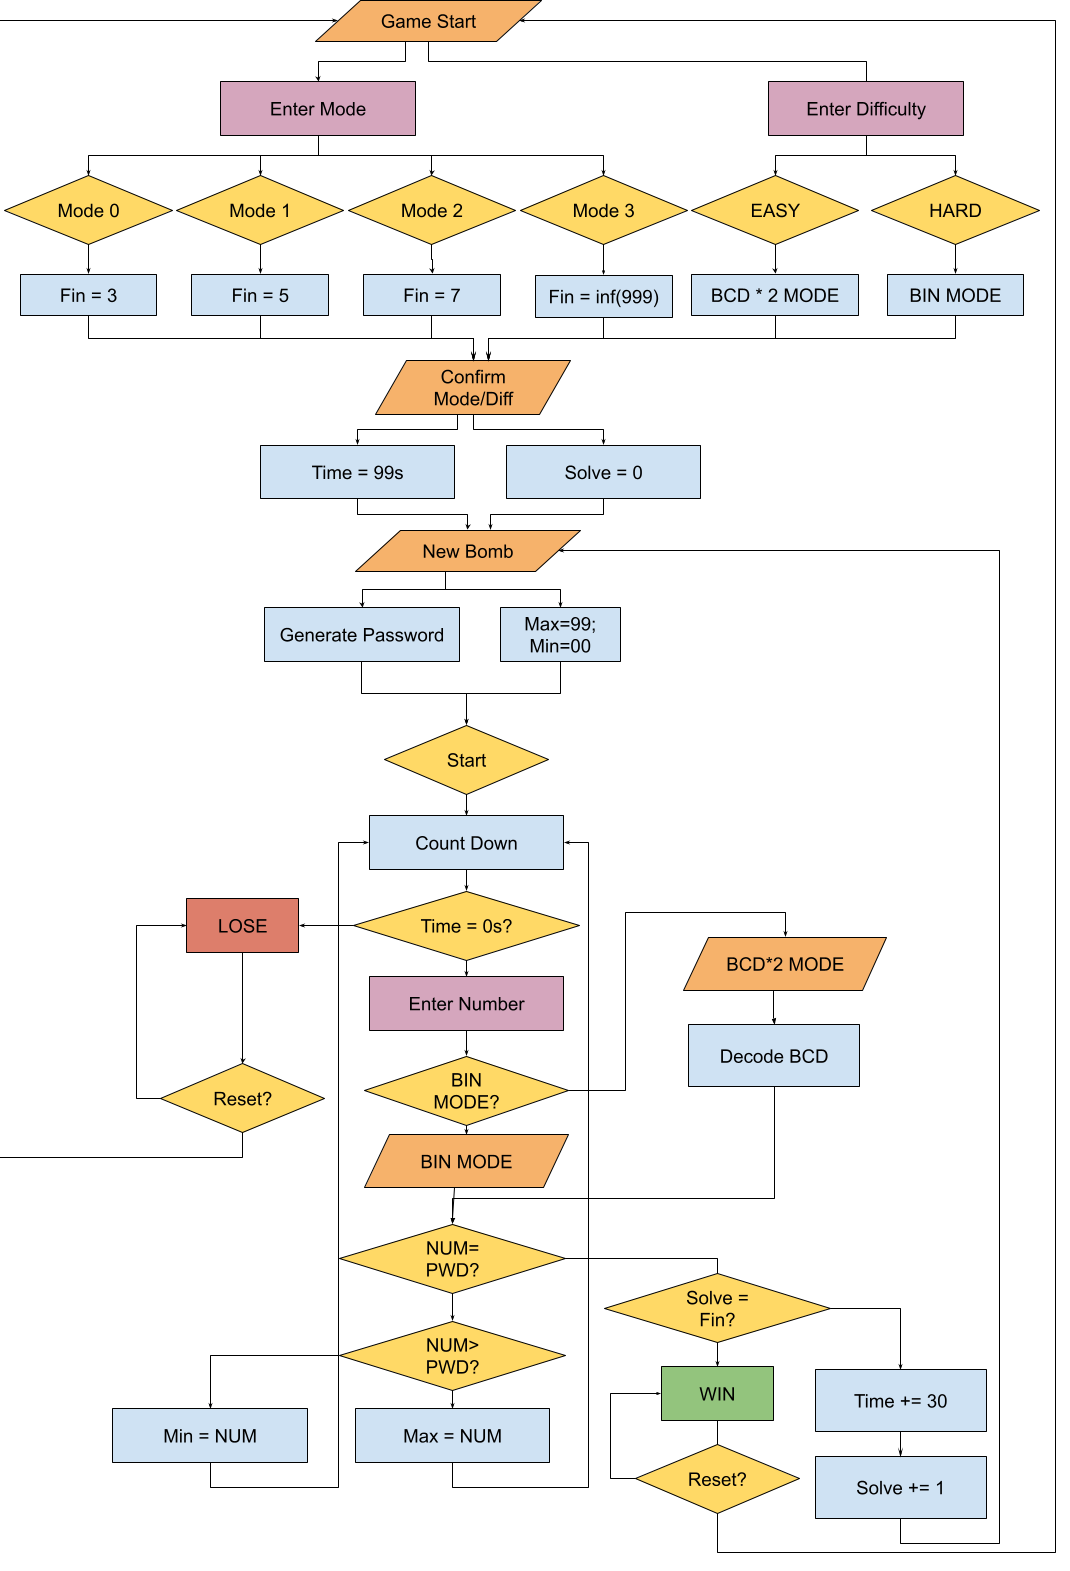
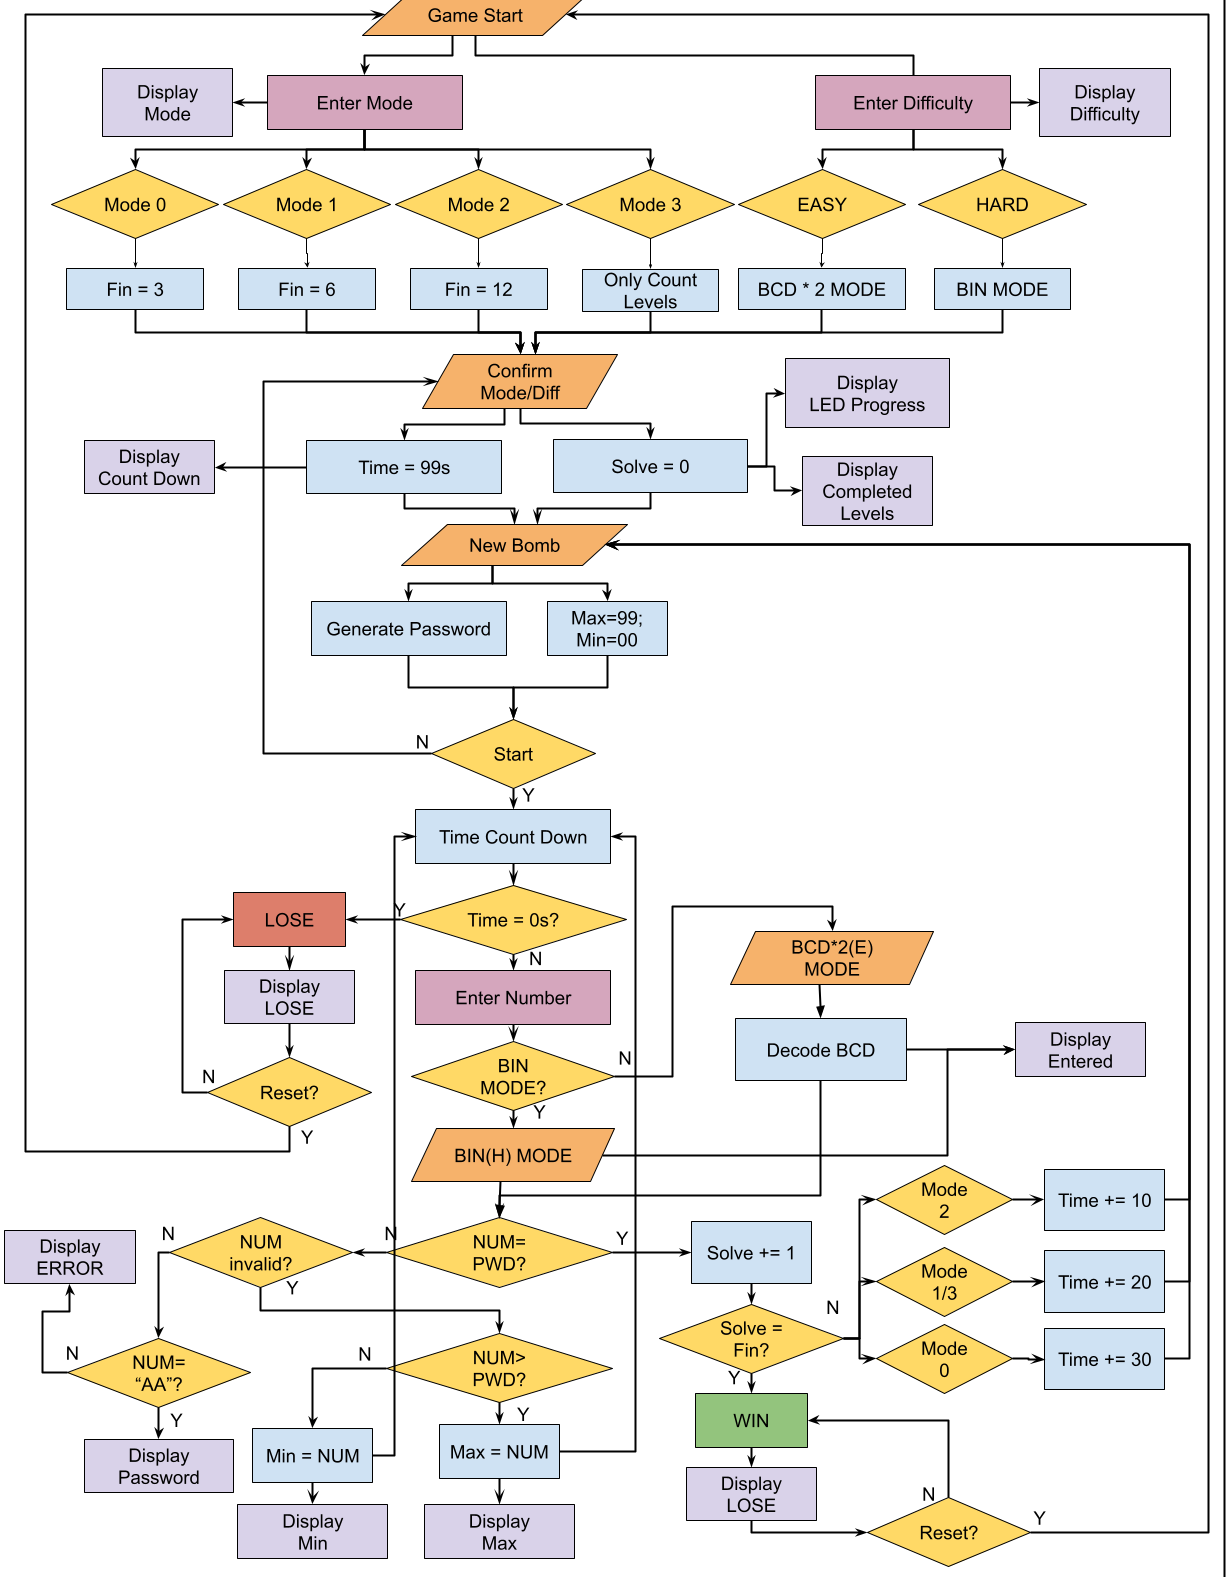
feat: implement digital circuit design and state documentation for Ultimate Bomb project

Changed region(s): [[0.0, 0.0, 1.0, 1.0], [0.0, 0.0, 0.0308, 0.0312]]

diff --git a/StateDiagram.md b/StateDiagram.md
@@ -1,0 +1,47 @@
+# 拆彈遊戲 狀態機圖 (State Diagram)
+
+本圖為 `Ultimate_Bomb_controller` 的核心狀態機轉換圖。
+您可以使用支援 Mermaid 的 Markdown 編輯器 (如 VSCode, Obsidian) 或貼到 [Mermaid Live Editor](https://mermaid.live/) 來預覽並匯出圖片。
+
+```mermaid
+stateDiagram-v2
+    %% 定義狀態節點
+    state "待機 (IDLE)" as idle
+    state "產生新密碼 (NEXT_BOMB)" as next_bomb
+    state "生死倒數 (GAME)" as game
+    state "檢查密碼 (CHECK_PASS)" as check_pass
+    state "遊戲勝利 (GAME_WIN)" as game_win
+    state "爆炸失敗 (GAME_LOSE)" as game_lose
+
+    %% 進入點
+    [*] --> idle : 開機或 Reset
+
+    %% 正常遊戲流程
+    idle --> next_bomb : EN=1 (按下 Confirm 開始遊戲)
+    next_bomb --> game : EN=1 (按下 Confirm 進入倒數)
+    game --> check_pass : EN=1 (玩家輸入並送出猜測)
+
+    %% 密碼比對邏輯
+    check_pass --> game : Pass_Gt=1 或 Pass_Lt=1 \n (猜錯，更新上下限繼續猜)
+    check_pass --> next_bomb : Pass_Match=1 且 Win_Flag=0 \n (猜中，但關卡還沒滿，繼續下一顆)
+    check_pass --> game_win : Pass_Match=1 且 Win_Flag=1 \n (猜中，且達成通關條件)
+
+    %% 時間超時邏輯 (涵蓋所有遊戲中狀態)
+    game --> game_lose : Time_Out=1
+    next_bomb --> game_lose : Time_Out=1
+    check_pass --> game_lose : Time_Out=1
+
+    %% 結束狀態重置
+    game_win --> idle : Reset=1
+    game_lose --> idle : Reset=1
+```
+
+### 狀態動作說明：
+* **`IDLE`**：清除所有狀態 (`WIN`, `LOSE`, `Game_Run` = 0)，等待玩家選擇難度。
+* **`NEXT_BOMB`**：發送 `New_Bomb` 脈衝，觸發 RNG 產生新目標密碼，並將 Min/Max 重置為 00 與 99。
+* **`GAME`**：發送 `Game_Run` = 1，啟動外部的 1Hz 倒數計時器。
+* **`CHECK_PASS`**：
+  * 若大於/小於目標，發送 `Load_Max` 或 `Load_Min` 給暫存器。
+  * 若等於目標，發送 `add_time` (加秒數) 與 `Next_Level` (關卡進度+1)。
+* **`GAME_WIN`**：輸出 `WIN=1`，關閉計時器。
+* **`GAME_LOSE`**：輸出 `LOSE=1`，關閉計時器。

diff --git a/README.md b/README.md
@@ -8,12 +8,16 @@
 
 [Digital Game File](./Digital/Ultimate_Bomb.dig)
 
-指導教授：吳昭正 副教授
+指導教授： 吳昭正 副教授
 
-## 組員
+## 組員與分工
 
-- 111310452 電機四甲 黃安華
-- 112310456 電機三乙 林岑芝
+|學號|班級|姓名|負責單元|
+|----|----|----|----|
+|111310452|電機四甲|黃安華|狀態機、解碼器、比較器、輸出單元|
+|112310456|電機三乙|林岑芝|亂數產生器、倒數計時器、記憶單元|
+
+註：此分工表僅供參考，因部分功能原本是合在一起的，之後為了讓電路更簡潔與完善功能才將功能拆分至其他元件中，因此最後各自與原分工相關的元件數量可能不同。
 
 ## 專題設計巧思
 
@@ -31,7 +35,7 @@
 本專題結合了經典的「終極密碼」與「定時炸彈」機制，核心規則如下：
 1. **遊戲目標**：在倒數計時歸零前，找出炸彈的正確兩位數密碼（00~99）來成功拆彈。
 2. **極限縮圈**：每次輸入猜測數字後，系統會自動比對。如果猜錯，系統會根據猜測值自動更新「上限（Max）」或「下限（Min）」，讓可猜測的區間越來越小。
-3. **生死時速**：倒數計時器會不斷扣秒，給予玩家壓迫感。成功拆除一顆炸彈後，系統會給予些許獎勵時間。
+3. **生死時速**：倒數計時器會不斷扣秒，給予玩家壓迫感。成功拆除一顆炸彈後，系統會根據當前難度給予獎勵時間 (入門+30秒、進階與無盡+20秒、挑戰+10秒)。
 4. **勝負判定**：
    - **勝利**：若在時間內拆除該模式指定數量的炸彈，遊戲結束並顯示「WIN」。
    - **失敗**：若倒數歸零前未能猜出當前密碼，炸彈將引爆，遊戲結束並顯示「LOSE」。
@@ -71,7 +75,7 @@
 [電路架構](./Structure.md)
 [SM Chart](./smchart.md)
 [SM Chart TXT](./smchart(gemini).txt)
-<!-- [狀態圖](./StateDiagram.svg) -->
+<!-- [狀態圖](./StateDiagram.md) -->
 
 ## 遊戲元件與功能
 

diff --git a/Structure.md b/Structure.md
@@ -57,7 +57,7 @@ graph TD
     I_Switch -->|更新範圍| M_Min & M_Max
 
     %% 記憶 <-> 控制與運算
-    M_Mode -- "Mode (00~11)" --> C_Level & O_LED
+    M_Mode -- "Mode (00~11)" --> C_Level & O_LED & A_Timer
     C_FSM -- "Load_Min" --> M_Min
     C_FSM -- "Load_Max" --> M_Max
     M_Min -- "Min 值" --> O_7Seg